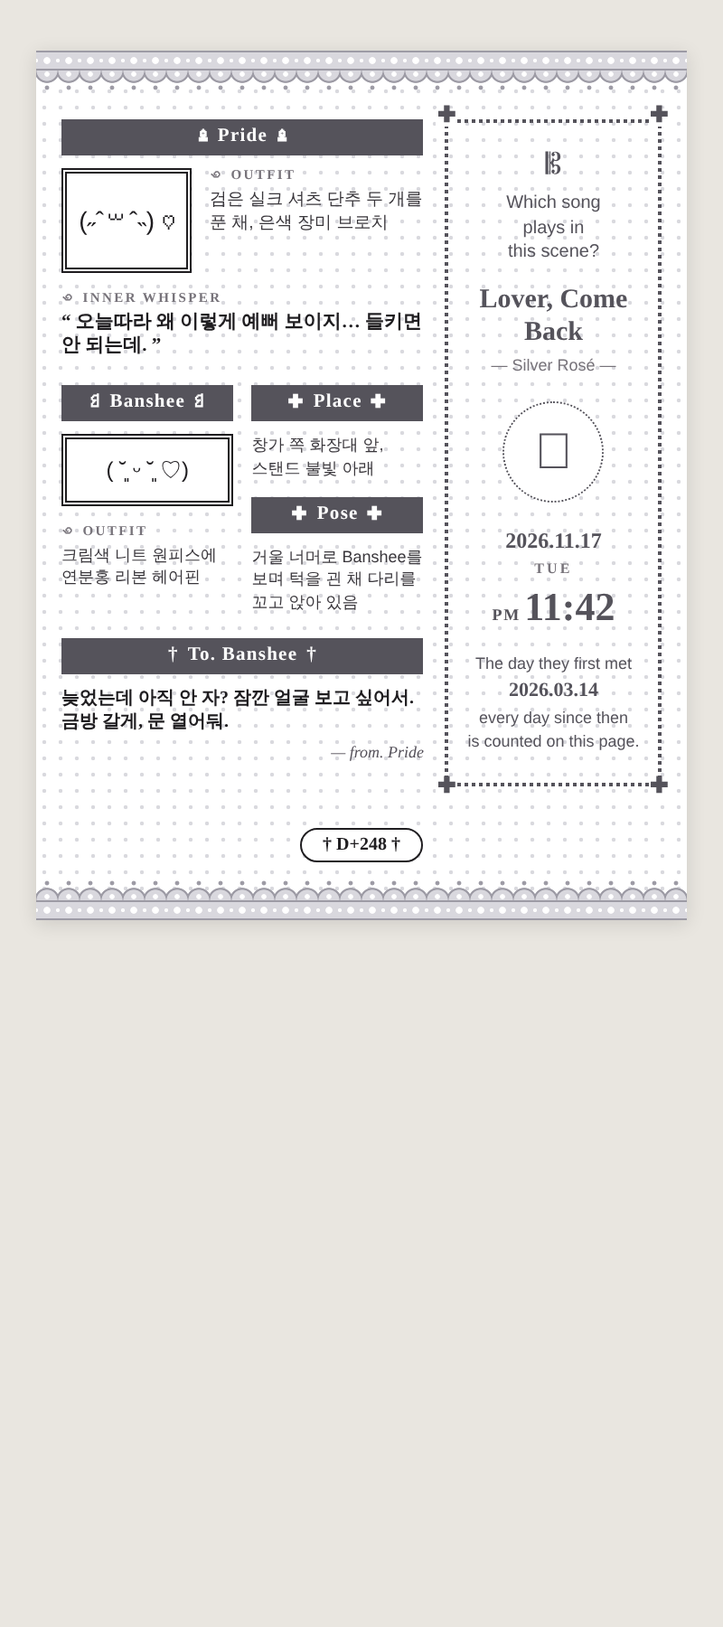
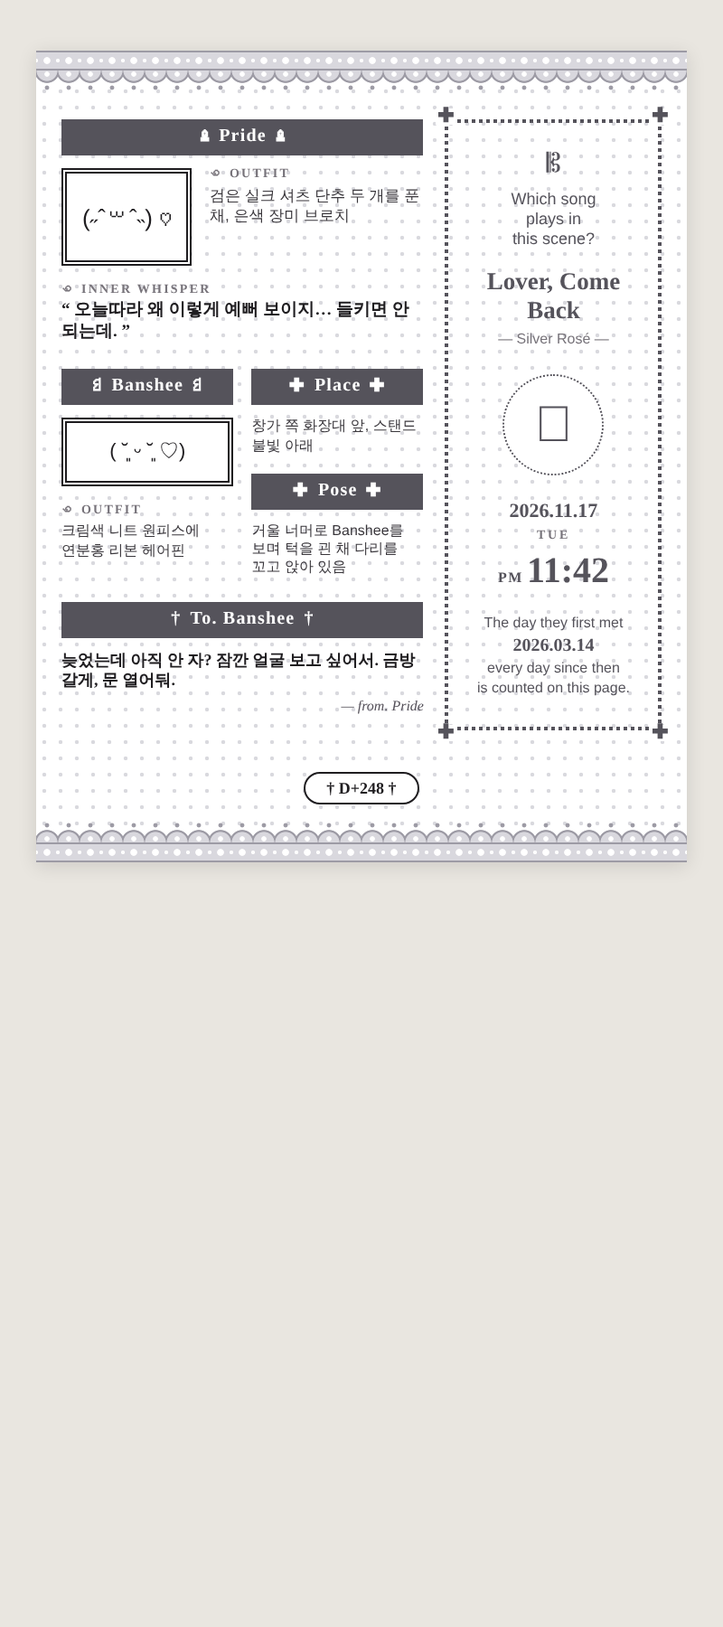
Artbook: smaller type and tighter leading
Claude-Session: https://claude.ai/code/session_015A6CDdg71MrHfD1T3L7zrX

diff --git a/caveduck-widget/artbook-preview.html b/caveduck-widget/artbook-preview.html
@@ -9,66 +9,66 @@
     <div style="flex:1 1 0;min-width:0;display:flex;flex-direction:column;gap:14px">
       <!-- Pride 카드 : 카오모지 k · 옷차림 o · 속마음 i -->
       <div>
-        <div style="background:#55535b;color:#fff;text-align:center;font:700 10.5px/1 'Nanum Myeongjo','Noto Serif KR','Times New Roman',serif;letter-spacing:.06em;height:20px;padding:0 6px;display:flex;align-items:center;justify-content:center;gap:5px;margin-bottom:7px"><span style="font-size:1em;line-height:1">♝</span><span>Pride</span><span style="font-size:1em;line-height:1">♝</span></div>
+        <div style="background:#55535b;color:#fff;text-align:center;font:700 10px/1 'Nanum Myeongjo','Noto Serif KR','Times New Roman',serif;letter-spacing:.06em;height:20px;padding:0 6px;display:flex;align-items:center;justify-content:center;gap:5px;margin-bottom:7px"><span style="font-size:1em;line-height:1">♝</span><span>Pride</span><span style="font-size:1em;line-height:1">♝</span></div>
         <div style="display:grid;grid-template-columns:72px 1fr;gap:10px;align-items:start">
-          <div style="height:58px;box-sizing:border-box;border:3px double #1f1d20;background:#fff;display:flex;align-items:center;justify-content:center;font-size:14px;line-height:1;white-space:nowrap;overflow:hidden">(˶ˆ꒳ˆ˵) ♡</div>
+          <div style="height:54px;box-sizing:border-box;border:3px double #1f1d20;background:#fff;display:flex;align-items:center;justify-content:center;font-size:13px;line-height:1;white-space:nowrap;overflow:hidden">(˶ˆ꒳ˆ˵) ♡</div>
           <div>
-            <div style="font:700 7.5px/1 'Nanum Myeongjo','Noto Serif KR','Times New Roman',serif;letter-spacing:.16em;color:#77737a;margin-bottom:3px">꩜ OUTFIT</div>
-            <div style="font:9.5px/1.38 'Pretendard','Apple SD Gothic Neo','Noto Sans KR',sans-serif;color:#3a373c">검은 실크 셔츠 단추 두 개를 푼 채, 은색 장미 브로치</div>
+            <div style="font:700 7px/1.0 'Nanum Myeongjo','Noto Serif KR','Times New Roman',serif;letter-spacing:.16em;color:#77737a;margin-bottom:3px">꩜ OUTFIT</div>
+            <div style="font:8.5px/1.27 'Pretendard','Apple SD Gothic Neo','Noto Sans KR',sans-serif;color:#3a373c">검은 실크 셔츠 단추 두 개를 푼 채, 은색 장미 브로치</div>
           </div>
         </div>
         <div style="margin-top:10px">
-          <div style="font:700 7.5px/1 'Nanum Myeongjo','Noto Serif KR','Times New Roman',serif;letter-spacing:.16em;color:#77737a;margin-bottom:3px">꩜ INNER WHISPER</div>
-          <div style="font:800 10.5px/1.32 'Nanum Myeongjo','Noto Serif KR','Times New Roman',serif;color:#1f1d20">“ 오늘따라 왜 이렇게 예뻐 보이지… 들키면 안 되는데. ”</div>
+          <div style="font:700 7px/1.0 'Nanum Myeongjo','Noto Serif KR','Times New Roman',serif;letter-spacing:.16em;color:#77737a;margin-bottom:3px">꩜ INNER WHISPER</div>
+          <div style="font:800 9.5px/1.23 'Nanum Myeongjo','Noto Serif KR','Times New Roman',serif;color:#1f1d20">“ 오늘따라 왜 이렇게 예뻐 보이지… 들키면 안 되는데. ”</div>
         </div>
       </div>
       <div style="display:grid;grid-template-columns:1fr 1fr;gap:10px">
         <!-- Banshee 카드 : 카오모지 l · 옷차림 p -->
         <div>
-          <div style="background:#55535b;color:#fff;text-align:center;font:700 10.5px/1 'Nanum Myeongjo','Noto Serif KR','Times New Roman',serif;letter-spacing:.06em;height:20px;padding:0 6px;display:flex;align-items:center;justify-content:center;gap:5px;margin-bottom:7px"><span style="font-size:1em;line-height:1">♘</span><span>Banshee</span><span style="font-size:1em;line-height:1">♘</span></div>
-          <div style="height:40px;box-sizing:border-box;border:3px double #1f1d20;background:#fff;display:flex;align-items:center;justify-content:center;font-size:12px;line-height:1;white-space:nowrap;overflow:hidden">( ˘͈ ᵕ ˘͈ ♡)</div>
+          <div style="background:#55535b;color:#fff;text-align:center;font:700 10px/1 'Nanum Myeongjo','Noto Serif KR','Times New Roman',serif;letter-spacing:.06em;height:20px;padding:0 6px;display:flex;align-items:center;justify-content:center;gap:5px;margin-bottom:7px"><span style="font-size:1em;line-height:1">♘</span><span>Banshee</span><span style="font-size:1em;line-height:1">♘</span></div>
+          <div style="height:38px;box-sizing:border-box;border:3px double #1f1d20;background:#fff;display:flex;align-items:center;justify-content:center;font-size:11px;line-height:1;white-space:nowrap;overflow:hidden">( ˘͈ ᵕ ˘͈ ♡)</div>
           <div style="margin-top:10px">
-            <div style="font:700 7.5px/1 'Nanum Myeongjo','Noto Serif KR','Times New Roman',serif;letter-spacing:.16em;color:#77737a;margin-bottom:3px">꩜ OUTFIT</div>
-            <div style="font:9px/1.38 'Pretendard','Apple SD Gothic Neo','Noto Sans KR',sans-serif;color:#3a373c">크림색 니트 원피스에 연분홍 리본 헤어핀</div>
+            <div style="font:700 7px/1.0 'Nanum Myeongjo','Noto Serif KR','Times New Roman',serif;letter-spacing:.16em;color:#77737a;margin-bottom:3px">꩜ OUTFIT</div>
+            <div style="font:8px/1.27 'Pretendard','Apple SD Gothic Neo','Noto Sans KR',sans-serif;color:#3a373c">크림색 니트 원피스에 연분홍 리본 헤어핀</div>
           </div>
         </div>
         <!-- 장소 g / 자세 h -->
         <div>
-          <div style="background:#55535b;color:#fff;text-align:center;font:700 10.5px/1 'Nanum Myeongjo','Noto Serif KR','Times New Roman',serif;letter-spacing:.06em;height:20px;padding:0 6px;display:flex;align-items:center;justify-content:center;gap:5px;margin-bottom:7px"><span style="font-size:8px;line-height:1">✚</span><span>Place</span><span style="font-size:8px;line-height:1">✚</span></div>
-          <div style="font:9px/1.38 'Pretendard','Apple SD Gothic Neo','Noto Sans KR',sans-serif;color:#3a373c">창가 쪽 화장대 앞, 스탠드 불빛 아래</div>
+          <div style="background:#55535b;color:#fff;text-align:center;font:700 10px/1 'Nanum Myeongjo','Noto Serif KR','Times New Roman',serif;letter-spacing:.06em;height:20px;padding:0 6px;display:flex;align-items:center;justify-content:center;gap:5px;margin-bottom:7px"><span style="font-size:8px;line-height:1">✚</span><span>Place</span><span style="font-size:8px;line-height:1">✚</span></div>
+          <div style="font:8px/1.27 'Pretendard','Apple SD Gothic Neo','Noto Sans KR',sans-serif;color:#3a373c">창가 쪽 화장대 앞, 스탠드 불빛 아래</div>
           <div style="margin-top:10px">
-            <div style="background:#55535b;color:#fff;text-align:center;font:700 10.5px/1 'Nanum Myeongjo','Noto Serif KR','Times New Roman',serif;letter-spacing:.06em;height:20px;padding:0 6px;display:flex;align-items:center;justify-content:center;gap:5px;margin-bottom:7px"><span style="font-size:8px;line-height:1">✚</span><span>Pose</span><span style="font-size:8px;line-height:1">✚</span></div>
-            <div style="font:9px/1.38 'Pretendard','Apple SD Gothic Neo','Noto Sans KR',sans-serif;color:#3a373c">거울 너머로 Banshee를 보며 턱을 괸 채 다리를 꼬고 앉아 있음</div>
+            <div style="background:#55535b;color:#fff;text-align:center;font:700 10px/1 'Nanum Myeongjo','Noto Serif KR','Times New Roman',serif;letter-spacing:.06em;height:20px;padding:0 6px;display:flex;align-items:center;justify-content:center;gap:5px;margin-bottom:7px"><span style="font-size:8px;line-height:1">✚</span><span>Pose</span><span style="font-size:8px;line-height:1">✚</span></div>
+            <div style="font:8px/1.27 'Pretendard','Apple SD Gothic Neo','Noto Sans KR',sans-serif;color:#3a373c">거울 너머로 Banshee를 보며 턱을 괸 채 다리를 꼬고 앉아 있음</div>
           </div>
         </div>
       </div>
       <!-- 메시지 j -->
       <div>
-        <div style="background:#55535b;color:#fff;text-align:center;font:700 10.5px/1 'Nanum Myeongjo','Noto Serif KR','Times New Roman',serif;letter-spacing:.06em;height:20px;padding:0 6px;display:flex;align-items:center;justify-content:center;gap:5px;margin-bottom:7px"><span style="font-size:1em;line-height:1">†</span><span>To. Banshee</span><span style="font-size:1em;line-height:1">†</span></div>
-        <div style="font:800 10px/1.32 'Nanum Myeongjo','Noto Serif KR','Times New Roman',serif;color:#1f1d20">늦었는데 아직 안 자? 잠깐 얼굴 보고 싶어서. 금방 갈게, 문 열어둬.</div>
-        <div style="text-align:right;font:italic 9px 'Nanum Myeongjo','Noto Serif KR','Times New Roman',serif;color:#55515a;margin-top:4px">— from. Pride</div>
+        <div style="background:#55535b;color:#fff;text-align:center;font:700 10px/1 'Nanum Myeongjo','Noto Serif KR','Times New Roman',serif;letter-spacing:.06em;height:20px;padding:0 6px;display:flex;align-items:center;justify-content:center;gap:5px;margin-bottom:7px"><span style="font-size:1em;line-height:1">†</span><span>To. Banshee</span><span style="font-size:1em;line-height:1">†</span></div>
+        <div style="font:800 9px/1.23 'Nanum Myeongjo','Noto Serif KR','Times New Roman',serif;color:#1f1d20">늦었는데 아직 안 자? 잠깐 얼굴 보고 싶어서. 금방 갈게, 문 열어둬.</div>
+        <div style="text-align:right;font:italic 8px 'Nanum Myeongjo','Noto Serif KR','Times New Roman',serif;color:#55515a;margin-top:4px">— from. Pride</div>
       </div>
     </div>
     <!-- 오른쪽 점선 칸 : 노래 a · 가수 b · 날짜 c · 요일 d · AM/PM e · 시각 f · 처음 만난 날 m -->
-    <div style="flex:0 0 36%;position:relative;border:2px dotted #55535b;padding:16px 8px;box-sizing:border-box;display:flex;flex-direction:column;justify-content:space-between;align-items:center;text-align:center;gap:14px"><span style="position:absolute;top:-8px;left:-7px;font-size:12px;line-height:1;color:#55535b;background:#fff;padding:0 1px;font-size:10px">✚</span><span style="position:absolute;top:-8px;right:-7px;font-size:12px;line-height:1;color:#55535b;background:#fff;padding:0 1px;font-size:10px">✚</span><span style="position:absolute;bottom:-8px;left:-7px;font-size:12px;line-height:1;color:#55535b;background:#fff;padding:0 1px;font-size:10px">✚</span><span style="position:absolute;bottom:-8px;right:-7px;font-size:12px;line-height:1;color:#55535b;background:#fff;padding:0 1px;font-size:10px">✚</span>
+    <div style="flex:0 0 36%;position:relative;border:2px dotted #55535b;padding:16px 8px;box-sizing:border-box;display:flex;flex-direction:column;justify-content:space-between;align-items:center;text-align:center;gap:14px"><span style="position:absolute;top:-8px;left:-7px;font-size:11px;line-height:1;color:#55535b;background:#fff;padding:0 1px;font-size:9px">✚</span><span style="position:absolute;top:-8px;right:-7px;font-size:11px;line-height:1;color:#55535b;background:#fff;padding:0 1px;font-size:9px">✚</span><span style="position:absolute;bottom:-8px;left:-7px;font-size:11px;line-height:1;color:#55535b;background:#fff;padding:0 1px;font-size:9px">✚</span><span style="position:absolute;bottom:-8px;right:-7px;font-size:11px;line-height:1;color:#55535b;background:#fff;padding:0 1px;font-size:9px">✚</span>
       <div>
-        <div style="font-size:16px;line-height:1;color:#55535b;margin-bottom:6px">𝄡</div>
-        <div style="font:10px/1.35 'Pretendard','Apple SD Gothic Neo','Noto Sans KR',sans-serif;color:#55535b">Which song<br>plays in<br>this scene?</div>
-        <div style="font:800 15px/1.2 'Nanum Myeongjo','Noto Serif KR','Times New Roman',serif;color:#55535b;margin-top:10px">Lover, Come Back</div>
-        <div style="font:9px/1.3 'Pretendard','Apple SD Gothic Neo','Noto Sans KR',sans-serif;color:#77737a;margin-top:4px">— Silver Rosé —</div>
+        <div style="font-size:14.5px;line-height:1;color:#55535b;margin-bottom:6px">𝄡</div>
+        <div style="font:9px/1.25 'Pretendard','Apple SD Gothic Neo','Noto Sans KR',sans-serif;color:#55535b">Which song<br>plays in<br>this scene?</div>
+        <div style="font:800 13.5px/1.14 'Nanum Myeongjo','Noto Serif KR','Times New Roman',serif;color:#55535b;margin-top:10px">Lover, Come Back</div>
+        <div style="font:8px/1.22 'Pretendard','Apple SD Gothic Neo','Noto Sans KR',sans-serif;color:#77737a;margin-top:4px">— Silver Rosé —</div>
       </div>
       <!-- 십자가 엠블럼 -->
       <div style="width:56px;height:56px;margin:0 auto;border-radius:50%;border:1.5px dotted #55535b;box-sizing:border-box;background:#fff;display:flex;align-items:center;justify-content:center;font-size:28px;line-height:1;color:#55535b">𖢒</div>
       <div>
-        <div style="font:800 12px/1.2 'Nanum Myeongjo','Noto Serif KR','Times New Roman',serif;color:#55535b">2026.11.17</div>
-        <div style="font:700 8px/1 'Nanum Myeongjo','Noto Serif KR','Times New Roman',serif;letter-spacing:.2em;color:#77737a;margin-top:4px">TUE</div>
-        <div style="font:800 22px/1 'Nanum Myeongjo','Noto Serif KR','Times New Roman',serif;color:#55535b;margin-top:6px"><span style="font-size:9px;letter-spacing:.1em;margin-right:2px">PM</span>11:42</div>
+        <div style="font:800 11px/1.14 'Nanum Myeongjo','Noto Serif KR','Times New Roman',serif;color:#55535b">2026.11.17</div>
+        <div style="font:700 7px/1.0 'Nanum Myeongjo','Noto Serif KR','Times New Roman',serif;letter-spacing:.2em;color:#77737a;margin-top:4px">TUE</div>
+        <div style="font:800 20px/1.0 'Nanum Myeongjo','Noto Serif KR','Times New Roman',serif;color:#55535b;margin-top:6px"><span style="font-size:8px;letter-spacing:.1em;margin-right:2px">PM</span>11:42</div>
       </div>
-      <div style="font:9px/1.45 'Pretendard','Apple SD Gothic Neo','Noto Sans KR',sans-serif;color:#55535b">The day they first met<br><b style="font:800 11px/1.6 'Nanum Myeongjo','Noto Serif KR','Times New Roman',serif;color:#55535b">2026.03.14</b><br>every day since then<br>is counted on this page.</div>
+      <div style="font:8px/1.32 'Pretendard','Apple SD Gothic Neo','Noto Sans KR',sans-serif;color:#55535b">The day they first met<br><b style="font:800 10px/1.43 'Nanum Myeongjo','Noto Serif KR','Times New Roman',serif;color:#55535b">2026.03.14</b><br>every day since then<br>is counted on this page.</div>
     </div>
   </div>
   <!-- 쪽번호 : 디데이 n -->
-  <div style="text-align:center;margin-top:10px"><span style="display:inline-block;background:#fff;border:1.5px solid #1f1d20;border-radius:12px;padding:4px 12px 3px;font:800 10px/1 'Nanum Myeongjo','Noto Serif KR','Times New Roman',serif;color:#1f1d20">† D+248 †</span></div>
+  <div style="text-align:center;margin-top:10px"><span style="display:inline-block;background:#fff;border:1.5px solid #1f1d20;border-radius:12px;padding:4px 12px 3px;font:800 9px/1.0 'Nanum Myeongjo','Noto Serif KR','Times New Roman',serif;color:#1f1d20">† D+248 †</span></div>
   <div style="margin-top:10px"></div>
   <!-- 아래 레이스 -->
   <div>

diff --git a/caveduck-widget/artbook-widget.html b/caveduck-widget/artbook-widget.html
@@ -9,66 +9,66 @@
     <div style="flex:1 1 0;min-width:0;display:flex;flex-direction:column;gap:14px">
       <!-- Pride 카드 : 카오모지 k · 옷차림 o · 속마음 i -->
       <div>
-        <div style="background:#55535b;color:#fff;text-align:center;font:700 10.5px/1 'Nanum Myeongjo','Noto Serif KR','Times New Roman',serif;letter-spacing:.06em;height:20px;padding:0 6px;display:flex;align-items:center;justify-content:center;gap:5px;margin-bottom:7px"><span style="font-size:1em;line-height:1">♝</span><span>Pride</span><span style="font-size:1em;line-height:1">♝</span></div>
+        <div style="background:#55535b;color:#fff;text-align:center;font:700 10px/1 'Nanum Myeongjo','Noto Serif KR','Times New Roman',serif;letter-spacing:.06em;height:20px;padding:0 6px;display:flex;align-items:center;justify-content:center;gap:5px;margin-bottom:7px"><span style="font-size:1em;line-height:1">♝</span><span>Pride</span><span style="font-size:1em;line-height:1">♝</span></div>
         <div style="display:grid;grid-template-columns:72px 1fr;gap:10px;align-items:start">
-          <div style="height:58px;box-sizing:border-box;border:3px double #1f1d20;background:#fff;display:flex;align-items:center;justify-content:center;font-size:14px;line-height:1;white-space:nowrap;overflow:hidden">{{k}}</div>
+          <div style="height:54px;box-sizing:border-box;border:3px double #1f1d20;background:#fff;display:flex;align-items:center;justify-content:center;font-size:13px;line-height:1;white-space:nowrap;overflow:hidden">{{k}}</div>
           <div>
-            <div style="font:700 7.5px/1 'Nanum Myeongjo','Noto Serif KR','Times New Roman',serif;letter-spacing:.16em;color:#77737a;margin-bottom:3px">꩜ OUTFIT</div>
-            <div style="font:9.5px/1.38 'Pretendard','Apple SD Gothic Neo','Noto Sans KR',sans-serif;color:#3a373c">{{o}}</div>
+            <div style="font:700 7px/1.0 'Nanum Myeongjo','Noto Serif KR','Times New Roman',serif;letter-spacing:.16em;color:#77737a;margin-bottom:3px">꩜ OUTFIT</div>
+            <div style="font:8.5px/1.27 'Pretendard','Apple SD Gothic Neo','Noto Sans KR',sans-serif;color:#3a373c">{{o}}</div>
           </div>
         </div>
         <div style="margin-top:10px">
-          <div style="font:700 7.5px/1 'Nanum Myeongjo','Noto Serif KR','Times New Roman',serif;letter-spacing:.16em;color:#77737a;margin-bottom:3px">꩜ INNER WHISPER</div>
-          <div style="font:800 10.5px/1.32 'Nanum Myeongjo','Noto Serif KR','Times New Roman',serif;color:#1f1d20">“ {{i}} ”</div>
+          <div style="font:700 7px/1.0 'Nanum Myeongjo','Noto Serif KR','Times New Roman',serif;letter-spacing:.16em;color:#77737a;margin-bottom:3px">꩜ INNER WHISPER</div>
+          <div style="font:800 9.5px/1.23 'Nanum Myeongjo','Noto Serif KR','Times New Roman',serif;color:#1f1d20">“ {{i}} ”</div>
         </div>
       </div>
       <div style="display:grid;grid-template-columns:1fr 1fr;gap:10px">
         <!-- Banshee 카드 : 카오모지 l · 옷차림 p -->
         <div>
-          <div style="background:#55535b;color:#fff;text-align:center;font:700 10.5px/1 'Nanum Myeongjo','Noto Serif KR','Times New Roman',serif;letter-spacing:.06em;height:20px;padding:0 6px;display:flex;align-items:center;justify-content:center;gap:5px;margin-bottom:7px"><span style="font-size:1em;line-height:1">♘</span><span>Banshee</span><span style="font-size:1em;line-height:1">♘</span></div>
-          <div style="height:40px;box-sizing:border-box;border:3px double #1f1d20;background:#fff;display:flex;align-items:center;justify-content:center;font-size:12px;line-height:1;white-space:nowrap;overflow:hidden">{{l}}</div>
+          <div style="background:#55535b;color:#fff;text-align:center;font:700 10px/1 'Nanum Myeongjo','Noto Serif KR','Times New Roman',serif;letter-spacing:.06em;height:20px;padding:0 6px;display:flex;align-items:center;justify-content:center;gap:5px;margin-bottom:7px"><span style="font-size:1em;line-height:1">♘</span><span>Banshee</span><span style="font-size:1em;line-height:1">♘</span></div>
+          <div style="height:38px;box-sizing:border-box;border:3px double #1f1d20;background:#fff;display:flex;align-items:center;justify-content:center;font-size:11px;line-height:1;white-space:nowrap;overflow:hidden">{{l}}</div>
           <div style="margin-top:10px">
-            <div style="font:700 7.5px/1 'Nanum Myeongjo','Noto Serif KR','Times New Roman',serif;letter-spacing:.16em;color:#77737a;margin-bottom:3px">꩜ OUTFIT</div>
-            <div style="font:9px/1.38 'Pretendard','Apple SD Gothic Neo','Noto Sans KR',sans-serif;color:#3a373c">{{p}}</div>
+            <div style="font:700 7px/1.0 'Nanum Myeongjo','Noto Serif KR','Times New Roman',serif;letter-spacing:.16em;color:#77737a;margin-bottom:3px">꩜ OUTFIT</div>
+            <div style="font:8px/1.27 'Pretendard','Apple SD Gothic Neo','Noto Sans KR',sans-serif;color:#3a373c">{{p}}</div>
           </div>
         </div>
         <!-- 장소 g / 자세 h -->
         <div>
-          <div style="background:#55535b;color:#fff;text-align:center;font:700 10.5px/1 'Nanum Myeongjo','Noto Serif KR','Times New Roman',serif;letter-spacing:.06em;height:20px;padding:0 6px;display:flex;align-items:center;justify-content:center;gap:5px;margin-bottom:7px"><span style="font-size:8px;line-height:1">✚</span><span>Place</span><span style="font-size:8px;line-height:1">✚</span></div>
-          <div style="font:9px/1.38 'Pretendard','Apple SD Gothic Neo','Noto Sans KR',sans-serif;color:#3a373c">{{g}}</div>
+          <div style="background:#55535b;color:#fff;text-align:center;font:700 10px/1 'Nanum Myeongjo','Noto Serif KR','Times New Roman',serif;letter-spacing:.06em;height:20px;padding:0 6px;display:flex;align-items:center;justify-content:center;gap:5px;margin-bottom:7px"><span style="font-size:8px;line-height:1">✚</span><span>Place</span><span style="font-size:8px;line-height:1">✚</span></div>
+          <div style="font:8px/1.27 'Pretendard','Apple SD Gothic Neo','Noto Sans KR',sans-serif;color:#3a373c">{{g}}</div>
           <div style="margin-top:10px">
-            <div style="background:#55535b;color:#fff;text-align:center;font:700 10.5px/1 'Nanum Myeongjo','Noto Serif KR','Times New Roman',serif;letter-spacing:.06em;height:20px;padding:0 6px;display:flex;align-items:center;justify-content:center;gap:5px;margin-bottom:7px"><span style="font-size:8px;line-height:1">✚</span><span>Pose</span><span style="font-size:8px;line-height:1">✚</span></div>
-            <div style="font:9px/1.38 'Pretendard','Apple SD Gothic Neo','Noto Sans KR',sans-serif;color:#3a373c">{{h}}</div>
+            <div style="background:#55535b;color:#fff;text-align:center;font:700 10px/1 'Nanum Myeongjo','Noto Serif KR','Times New Roman',serif;letter-spacing:.06em;height:20px;padding:0 6px;display:flex;align-items:center;justify-content:center;gap:5px;margin-bottom:7px"><span style="font-size:8px;line-height:1">✚</span><span>Pose</span><span style="font-size:8px;line-height:1">✚</span></div>
+            <div style="font:8px/1.27 'Pretendard','Apple SD Gothic Neo','Noto Sans KR',sans-serif;color:#3a373c">{{h}}</div>
           </div>
         </div>
       </div>
       <!-- 메시지 j -->
       <div>
-        <div style="background:#55535b;color:#fff;text-align:center;font:700 10.5px/1 'Nanum Myeongjo','Noto Serif KR','Times New Roman',serif;letter-spacing:.06em;height:20px;padding:0 6px;display:flex;align-items:center;justify-content:center;gap:5px;margin-bottom:7px"><span style="font-size:1em;line-height:1">†</span><span>To. Banshee</span><span style="font-size:1em;line-height:1">†</span></div>
-        <div style="font:800 10px/1.32 'Nanum Myeongjo','Noto Serif KR','Times New Roman',serif;color:#1f1d20">{{j}}</div>
-        <div style="text-align:right;font:italic 9px 'Nanum Myeongjo','Noto Serif KR','Times New Roman',serif;color:#55515a;margin-top:4px">— from. Pride</div>
+        <div style="background:#55535b;color:#fff;text-align:center;font:700 10px/1 'Nanum Myeongjo','Noto Serif KR','Times New Roman',serif;letter-spacing:.06em;height:20px;padding:0 6px;display:flex;align-items:center;justify-content:center;gap:5px;margin-bottom:7px"><span style="font-size:1em;line-height:1">†</span><span>To. Banshee</span><span style="font-size:1em;line-height:1">†</span></div>
+        <div style="font:800 9px/1.23 'Nanum Myeongjo','Noto Serif KR','Times New Roman',serif;color:#1f1d20">{{j}}</div>
+        <div style="text-align:right;font:italic 8px 'Nanum Myeongjo','Noto Serif KR','Times New Roman',serif;color:#55515a;margin-top:4px">— from. Pride</div>
       </div>
     </div>
     <!-- 오른쪽 점선 칸 : 노래 a · 가수 b · 날짜 c · 요일 d · AM/PM e · 시각 f · 처음 만난 날 m -->
-    <div style="flex:0 0 36%;position:relative;border:2px dotted #55535b;padding:16px 8px;box-sizing:border-box;display:flex;flex-direction:column;justify-content:space-between;align-items:center;text-align:center;gap:14px"><span style="position:absolute;top:-8px;left:-7px;font-size:12px;line-height:1;color:#55535b;background:#fff;padding:0 1px;font-size:10px">✚</span><span style="position:absolute;top:-8px;right:-7px;font-size:12px;line-height:1;color:#55535b;background:#fff;padding:0 1px;font-size:10px">✚</span><span style="position:absolute;bottom:-8px;left:-7px;font-size:12px;line-height:1;color:#55535b;background:#fff;padding:0 1px;font-size:10px">✚</span><span style="position:absolute;bottom:-8px;right:-7px;font-size:12px;line-height:1;color:#55535b;background:#fff;padding:0 1px;font-size:10px">✚</span>
+    <div style="flex:0 0 36%;position:relative;border:2px dotted #55535b;padding:16px 8px;box-sizing:border-box;display:flex;flex-direction:column;justify-content:space-between;align-items:center;text-align:center;gap:14px"><span style="position:absolute;top:-8px;left:-7px;font-size:11px;line-height:1;color:#55535b;background:#fff;padding:0 1px;font-size:9px">✚</span><span style="position:absolute;top:-8px;right:-7px;font-size:11px;line-height:1;color:#55535b;background:#fff;padding:0 1px;font-size:9px">✚</span><span style="position:absolute;bottom:-8px;left:-7px;font-size:11px;line-height:1;color:#55535b;background:#fff;padding:0 1px;font-size:9px">✚</span><span style="position:absolute;bottom:-8px;right:-7px;font-size:11px;line-height:1;color:#55535b;background:#fff;padding:0 1px;font-size:9px">✚</span>
       <div>
-        <div style="font-size:16px;line-height:1;color:#55535b;margin-bottom:6px">𝄡</div>
-        <div style="font:10px/1.35 'Pretendard','Apple SD Gothic Neo','Noto Sans KR',sans-serif;color:#55535b">Which song<br>plays in<br>this scene?</div>
-        <div style="font:800 15px/1.2 'Nanum Myeongjo','Noto Serif KR','Times New Roman',serif;color:#55535b;margin-top:10px">{{a}}</div>
-        <div style="font:9px/1.3 'Pretendard','Apple SD Gothic Neo','Noto Sans KR',sans-serif;color:#77737a;margin-top:4px">— {{b}} —</div>
+        <div style="font-size:14.5px;line-height:1;color:#55535b;margin-bottom:6px">𝄡</div>
+        <div style="font:9px/1.25 'Pretendard','Apple SD Gothic Neo','Noto Sans KR',sans-serif;color:#55535b">Which song<br>plays in<br>this scene?</div>
+        <div style="font:800 13.5px/1.14 'Nanum Myeongjo','Noto Serif KR','Times New Roman',serif;color:#55535b;margin-top:10px">{{a}}</div>
+        <div style="font:8px/1.22 'Pretendard','Apple SD Gothic Neo','Noto Sans KR',sans-serif;color:#77737a;margin-top:4px">— {{b}} —</div>
       </div>
       <!-- 십자가 엠블럼 -->
       <div style="width:56px;height:56px;margin:0 auto;border-radius:50%;border:1.5px dotted #55535b;box-sizing:border-box;background:#fff;display:flex;align-items:center;justify-content:center;font-size:28px;line-height:1;color:#55535b">𖢒</div>
       <div>
-        <div style="font:800 12px/1.2 'Nanum Myeongjo','Noto Serif KR','Times New Roman',serif;color:#55535b">{{c}}</div>
-        <div style="font:700 8px/1 'Nanum Myeongjo','Noto Serif KR','Times New Roman',serif;letter-spacing:.2em;color:#77737a;margin-top:4px">{{d}}</div>
-        <div style="font:800 22px/1 'Nanum Myeongjo','Noto Serif KR','Times New Roman',serif;color:#55535b;margin-top:6px"><span style="font-size:9px;letter-spacing:.1em;margin-right:2px">{{e}}</span>{{f}}</div>
+        <div style="font:800 11px/1.14 'Nanum Myeongjo','Noto Serif KR','Times New Roman',serif;color:#55535b">{{c}}</div>
+        <div style="font:700 7px/1.0 'Nanum Myeongjo','Noto Serif KR','Times New Roman',serif;letter-spacing:.2em;color:#77737a;margin-top:4px">{{d}}</div>
+        <div style="font:800 20px/1.0 'Nanum Myeongjo','Noto Serif KR','Times New Roman',serif;color:#55535b;margin-top:6px"><span style="font-size:8px;letter-spacing:.1em;margin-right:2px">{{e}}</span>{{f}}</div>
       </div>
-      <div style="font:9px/1.45 'Pretendard','Apple SD Gothic Neo','Noto Sans KR',sans-serif;color:#55535b">The day they first met<br><b style="font:800 11px/1.6 'Nanum Myeongjo','Noto Serif KR','Times New Roman',serif;color:#55535b">{{m}}</b><br>every day since then<br>is counted on this page.</div>
+      <div style="font:8px/1.32 'Pretendard','Apple SD Gothic Neo','Noto Sans KR',sans-serif;color:#55535b">The day they first met<br><b style="font:800 10px/1.43 'Nanum Myeongjo','Noto Serif KR','Times New Roman',serif;color:#55535b">{{m}}</b><br>every day since then<br>is counted on this page.</div>
     </div>
   </div>
   <!-- 쪽번호 : 디데이 n -->
-  <div style="text-align:center;margin-top:10px"><span style="display:inline-block;background:#fff;border:1.5px solid #1f1d20;border-radius:12px;padding:4px 12px 3px;font:800 10px/1 'Nanum Myeongjo','Noto Serif KR','Times New Roman',serif;color:#1f1d20">† {{n}} †</span></div>
+  <div style="text-align:center;margin-top:10px"><span style="display:inline-block;background:#fff;border:1.5px solid #1f1d20;border-radius:12px;padding:4px 12px 3px;font:800 9px/1.0 'Nanum Myeongjo','Noto Serif KR','Times New Roman',serif;color:#1f1d20">† {{n}} †</span></div>
   <div style="margin-top:10px"></div>
   <!-- 아래 레이스 -->
   <div>

diff --git a/caveduck-widget/build_artbook.py b/caveduck-widget/build_artbook.py
@@ -47,7 +47,7 @@ def sp(c):
     z = '8px' if c == '✚' else '1em'
     return f"<span style=\"font-size:{z};line-height:1\">{c}</span>"
 def bar(t, sym='✚'):
-    return (f"<div style=\"background:{BAR};color:#fff;text-align:center;font:700 10.5px/1 {SERIF};letter-spacing:.06em;"
+    return (f"<div style=\"background:{BAR};color:#fff;text-align:center;font:700 10px/1 {SERIF};letter-spacing:.06em;"
             f"height:20px;padding:0 6px;display:flex;align-items:center;justify-content:center;gap:5px;margin-bottom:{GAP-3}px\">{sp(sym)}<span>{t}</span>{sp(sym)}</div>")
 
 def frame(k, h, fs):
@@ -55,13 +55,13 @@ def frame(k, h, fs):
             f"justify-content:center;font-size:{fs}px;line-height:1;white-space:nowrap;overflow:hidden\">{k}</div>")
 
 def label(t):
-    return f"<div style=\"font:700 7.5px/1 {SERIF};letter-spacing:.16em;color:#77737a;margin-bottom:3px\">꩜ {t}</div>"
+    return f"<div style=\"font:700 7px/1.0 {SERIF};letter-spacing:.16em;color:#77737a;margin-bottom:3px\">꩜ {t}</div>"
 
-def body(t, size=9.5):
-    return f"<div style=\"font:{size}px/1.38 {SANS};color:#3a373c\">{t}</div>"
+def body(t, size=8.5):
+    return f"<div style=\"font:{size}px/1.27 {SANS};color:#3a373c\">{t}</div>"
 
-def bold(t, size=10.5):
-    return f"<div style=\"font:800 {size}px/1.32 {SERIF};color:{INK}\">{t}</div>"
+def bold(t, size=9.5):
+    return f"<div style=\"font:800 {size}px/1.23 {SERIF};color:{INK}\">{t}</div>"
 
 def block(*parts, top=GAP):
     return f"<div style=\"margin-top:{top}px\">" + ''.join(parts) + "</div>"
@@ -69,38 +69,38 @@ def block(*parts, top=GAP):
 def build(d):
     pride = ("<!--@ Pride 카드 : 카오모지 k · 옷차림 o · 속마음 i --><div>" + bar(d['npc'], '♝')
              + f"<div style=\"display:grid;grid-template-columns:72px 1fr;gap:{GAP}px;align-items:start\">"
-             + frame(d['kn'], 58, 14) + "<div>" + label('OUTFIT') + body(d['o']) + "</div></div>"
+             + frame(d['kn'], 54, 13) + "<div>" + label('OUTFIT') + body(d['o']) + "</div></div>"
              + block(label('INNER WHISPER'), bold('“ ' + d['inner'] + ' ”')) + "</div>")
-    banshee = ("<!--@ Banshee 카드 : 카오모지 l · 옷차림 p --><div>" + bar(d['pc'], '♘') + frame(d['kp'], 40, 12)
-               + block(label('OUTFIT'), body(d['p'], 9)) + "</div>")
-    place = ("<!--@ 장소 g / 자세 h --><div>" + bar('Place') + body(d['place'], 9)
-             + f"<div style=\"margin-top:{GAP}px\">" + bar('Pose') + body(d['pose'], 9) + "</div></div>")
-    msg = ("<!--@ 메시지 j --><div>" + bar('To. ' + d['pc'], '†') + bold(d['msg'], 10)
-           + f"<div style=\"text-align:right;font:italic 9px {SERIF};color:#55515a;margin-top:4px\">— from. {d['npc']}</div></div>")
+    banshee = ("<!--@ Banshee 카드 : 카오모지 l · 옷차림 p --><div>" + bar(d['pc'], '♘') + frame(d['kp'], 38, 11)
+               + block(label('OUTFIT'), body(d['p'], 8)) + "</div>")
+    place = ("<!--@ 장소 g / 자세 h --><div>" + bar('Place') + body(d['place'], 8)
+             + f"<div style=\"margin-top:{GAP}px\">" + bar('Pose') + body(d['pose'], 8) + "</div></div>")
+    msg = ("<!--@ 메시지 j --><div>" + bar('To. ' + d['pc'], '†') + bold(d['msg'], 9)
+           + f"<div style=\"text-align:right;font:italic 8px {SERIF};color:#55515a;margin-top:4px\">— from. {d['npc']}</div></div>")
     main = (f"<div style=\"flex:1 1 0;min-width:0;display:flex;flex-direction:column;gap:{GAP+4}px\">" + pride
             + f"<div style=\"display:grid;grid-template-columns:1fr 1fr;gap:{GAP}px\">" + banshee + place + "</div>" + msg + "</div>")
 
-    corner = lambda pos: (f"<span style=\"position:absolute;{pos};font-size:12px;line-height:1;color:{BAR};background:#fff;padding:0 1px;font-size:10px\">✚</span>")
+    corner = lambda pos: (f"<span style=\"position:absolute;{pos};font-size:11px;line-height:1;color:{BAR};background:#fff;padding:0 1px;font-size:9px\">✚</span>")
     side = ("<!--@ 오른쪽 점선 칸 : 노래 a · 가수 b · 날짜 c · 요일 d · AM/PM e · 시각 f · 처음 만난 날 m -->"
             f"<div style=\"flex:0 0 36%;position:relative;border:2px dotted {BAR};padding:{GAP+6}px {GAP-2}px;box-sizing:border-box;"
             f"display:flex;flex-direction:column;justify-content:space-between;align-items:center;text-align:center;gap:{GAP+4}px\">"
             + corner('top:-8px;left:-7px') + corner('top:-8px;right:-7px') + corner('bottom:-8px;left:-7px') + corner('bottom:-8px;right:-7px')
             + "<div>"
-            + f"<div style=\"font-size:16px;line-height:1;color:{BAR};margin-bottom:6px\">𝄡</div>"
-            + f"<div style=\"font:10px/1.35 {SANS};color:{BAR}\">Which song<br>plays in<br>this scene?</div>"
-            + f"<div style=\"font:800 15px/1.2 {SERIF};color:{BAR};margin-top:{GAP}px\">{d['song']}</div>"
-            + f"<div style=\"font:9px/1.3 {SANS};color:#77737a;margin-top:4px\">— {d['artist']} —</div></div>"
+            + f"<div style=\"font-size:14.5px;line-height:1;color:{BAR};margin-bottom:6px\">𝄡</div>"
+            + f"<div style=\"font:9px/1.25 {SANS};color:{BAR}\">Which song<br>plays in<br>this scene?</div>"
+            + f"<div style=\"font:800 13.5px/1.14 {SERIF};color:{BAR};margin-top:{GAP}px\">{d['song']}</div>"
+            + f"<div style=\"font:8px/1.22 {SANS};color:#77737a;margin-top:4px\">— {d['artist']} —</div></div>"
             + emblem()
             + "<div>"
-            + f"<div style=\"font:800 12px/1.2 {SERIF};color:{BAR}\">{d['date']}</div>"
-            + f"<div style=\"font:700 8px/1 {SERIF};letter-spacing:.2em;color:#77737a;margin-top:4px\">{d['day']}</div>"
-            + f"<div style=\"font:800 22px/1 {SERIF};color:{BAR};margin-top:6px\"><span style=\"font-size:9px;letter-spacing:.1em;margin-right:2px\">{d['ampm']}</span>{d['time']}</div></div>"
-            + f"<div style=\"font:9px/1.45 {SANS};color:{BAR}\">The day they first met<br><b style=\"font:800 11px/1.6 {SERIF};color:{BAR}\">{d['met']}</b><br>every day since then<br>is counted on this page.</div>"
+            + f"<div style=\"font:800 11px/1.14 {SERIF};color:{BAR}\">{d['date']}</div>"
+            + f"<div style=\"font:700 7px/1.0 {SERIF};letter-spacing:.2em;color:#77737a;margin-top:4px\">{d['day']}</div>"
+            + f"<div style=\"font:800 20px/1.0 {SERIF};color:{BAR};margin-top:6px\"><span style=\"font-size:8px;letter-spacing:.1em;margin-right:2px\">{d['ampm']}</span>{d['time']}</div></div>"
+            + f"<div style=\"font:8px/1.32 {SANS};color:{BAR}\">The day they first met<br><b style=\"font:800 10px/1.43 {SERIF};color:{BAR}\">{d['met']}</b><br>every day since then<br>is counted on this page.</div>"
             + "</div>")
 
     foot = ("<!--@ 쪽번호 : 디데이 n -->"
             f"<div style=\"text-align:center;margin-top:{GAP}px\"><span style=\"display:inline-block;background:#fff;border:1.5px solid {INK};border-radius:12px;"
-            f"padding:4px 12px 3px;font:800 10px/1 {SERIF};color:{INK}\">† {d['dday']} †</span></div>")
+            f"padding:4px 12px 3px;font:800 9px/1.0 {SERIF};color:{INK}\">† {d['dday']} †</span></div>")
 
     return (f"<div style=\"max-width:360px;margin:12px auto;background:{DOTS};color:{INK};box-sizing:border-box;"
             f"font-family:{SANS};word-break:keep-all;box-shadow:0 2px 10px rgba(0,0,0,.12);\">"
